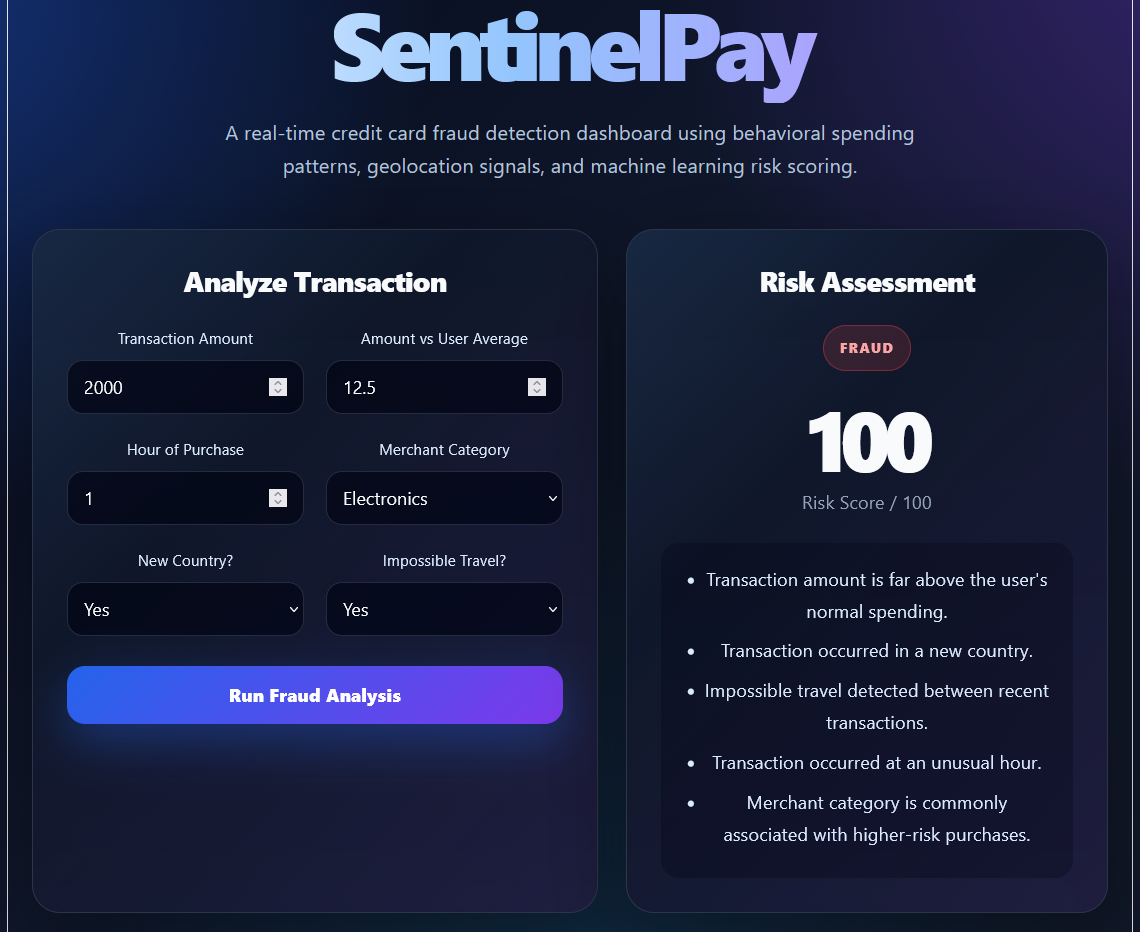
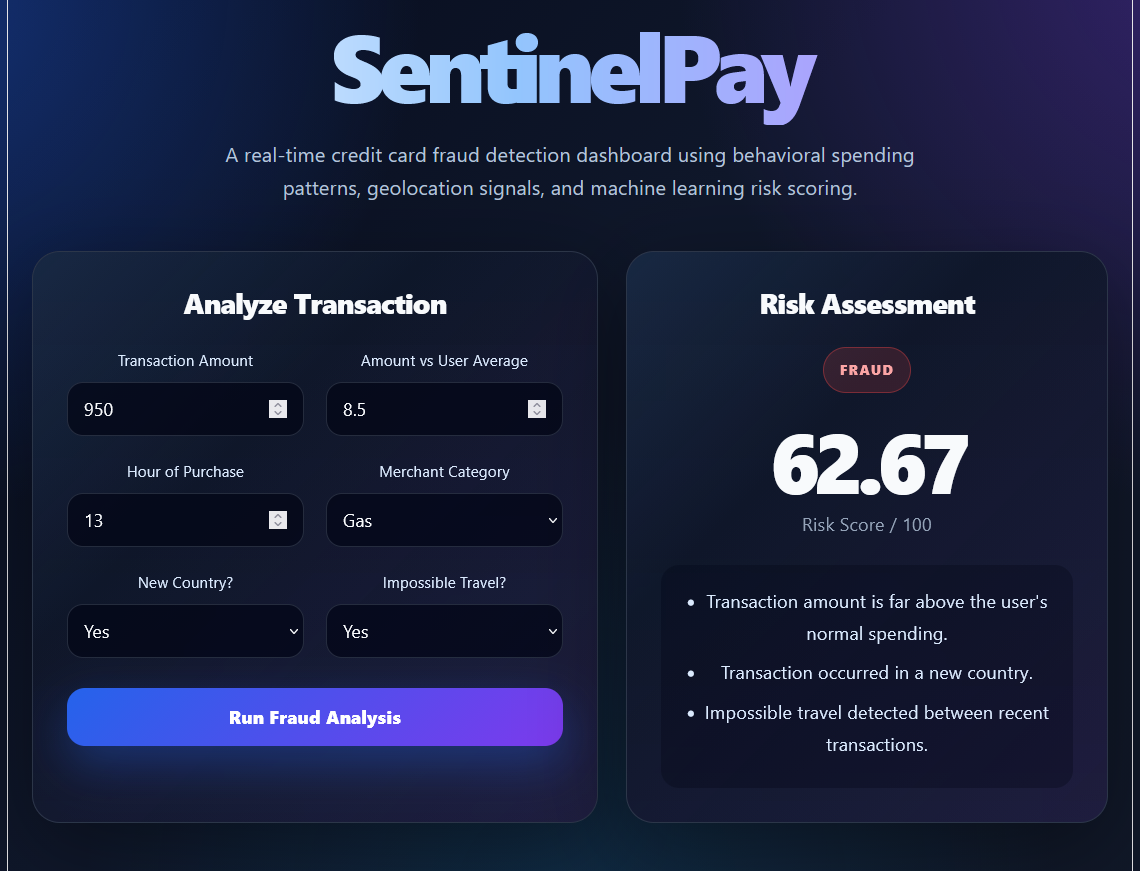
Changes

diff --git a/README.md b/README.md
@@ -162,8 +162,7 @@ Detected indicators:
 - Impossible travel
 - New country transaction
 - Abnormal spending amount
-- High-risk merchant category
-- Unusual purchase time
+
 
 ---
 gt